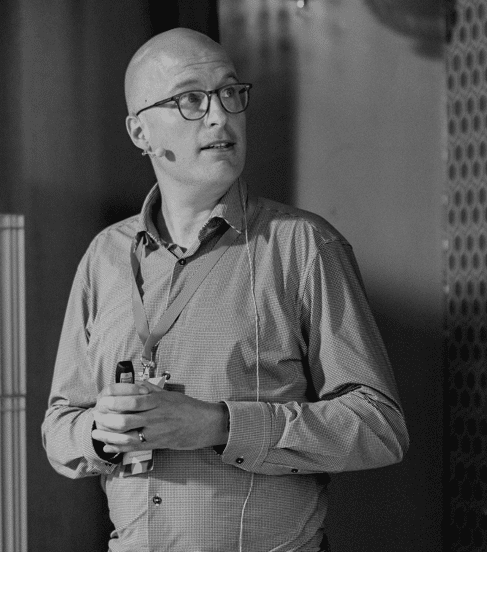
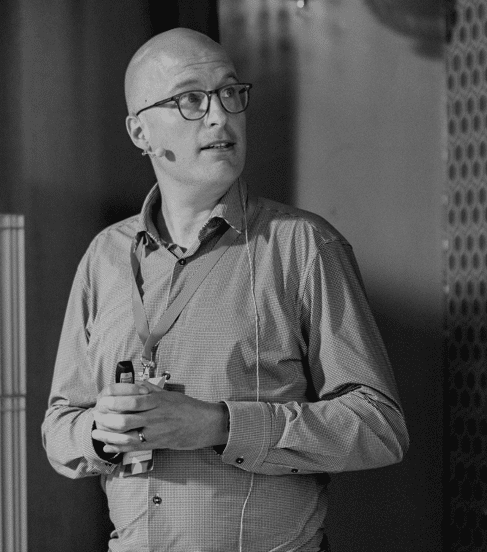
Selectie op geel, trainerfoto en video op mobiel
- Tekstselectie op gele vlakken in inkt i.p.v. geel op geel
- jan-gs.png: transparante strook van 48px onderaan weggesneden (gaf de zwarte balk)
- Trainerfoto was op mobiel onzichtbaar (kader zonder breedte), nu 320px vierkant
- Video op telefoon van rand tot rand, zonder radius, kleinere playknop

diff --git a/www/css/flat.css b/www/css/flat.css
@@ -115,6 +115,19 @@ p {
   background: var(--yellow);
   color: var(--on-yellow);
 }
+/* yellow-on-yellow selection is invisible: flip it to ink on every yellow surface */
+.on-yellow ::selection,
+.enroll .stub ::selection,
+.aud-yes ::selection,
+.stop.cta ::selection,
+.early::selection,
+.early ::selection,
+.form-card ::selection,
+.faq-talk-cta ::selection,
+.btn-yellow::selection {
+  background: var(--on-yellow);
+  color: var(--yellow);
+}
 
 .wrap {
   max-width: 1400px;
@@ -1809,6 +1822,23 @@ footer {
     max-width: none;
     text-align: left;
   }
+  /* phone: the video bleeds edge to edge (cancels .wrap's side padding) and the
+     play button shrinks, so it no longer dominates a 16:9 frame this small */
+  .vid-frame {
+    margin-inline: calc(-1 * clamp(22px, 4.5vw, 72px));
+    border-radius: 0;
+    border-inline: 0;
+  }
+  .vid-play {
+    gap: 10px;
+  }
+  .vid-disc {
+    width: 52px;
+    height: 52px;
+  }
+  .vid-label {
+    font-size: 16px;
+  }
 }
 @media (max-width: 900px) {
   .gap-grid,
@@ -1831,6 +1861,7 @@ footer {
     height: auto;
     min-height: 0;
     aspect-ratio: 1;
+    width: 100%; /* centred with no width, the frame collapses: its img is absolute */
     max-width: 320px;
     justify-self: center;
   }
